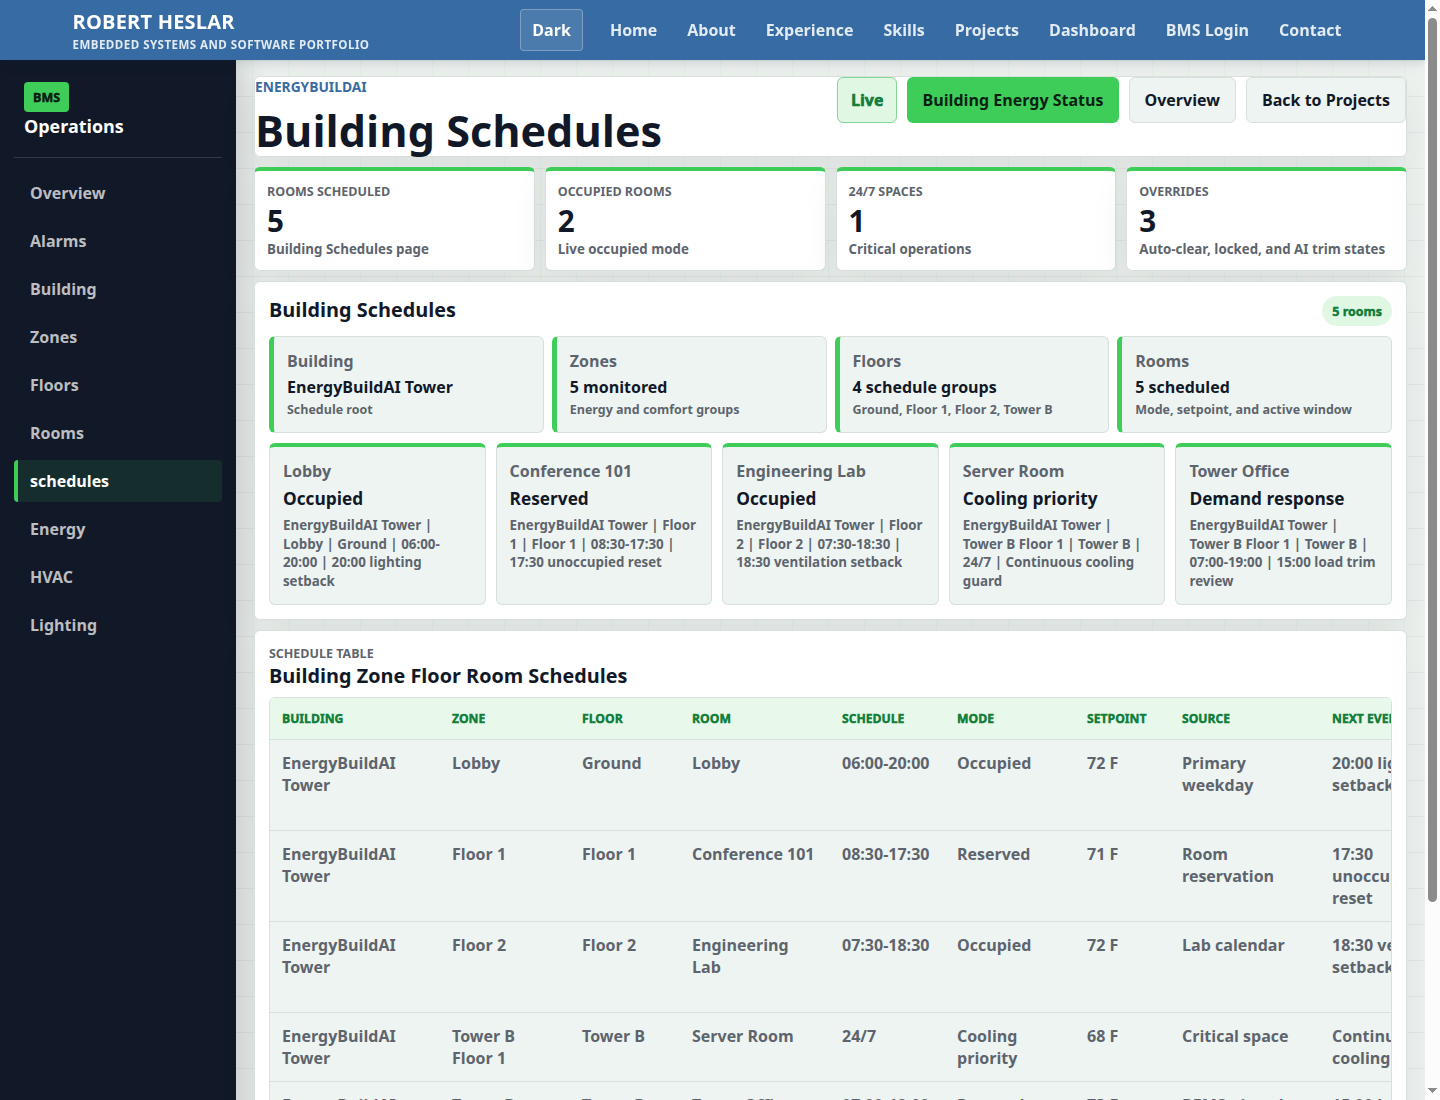
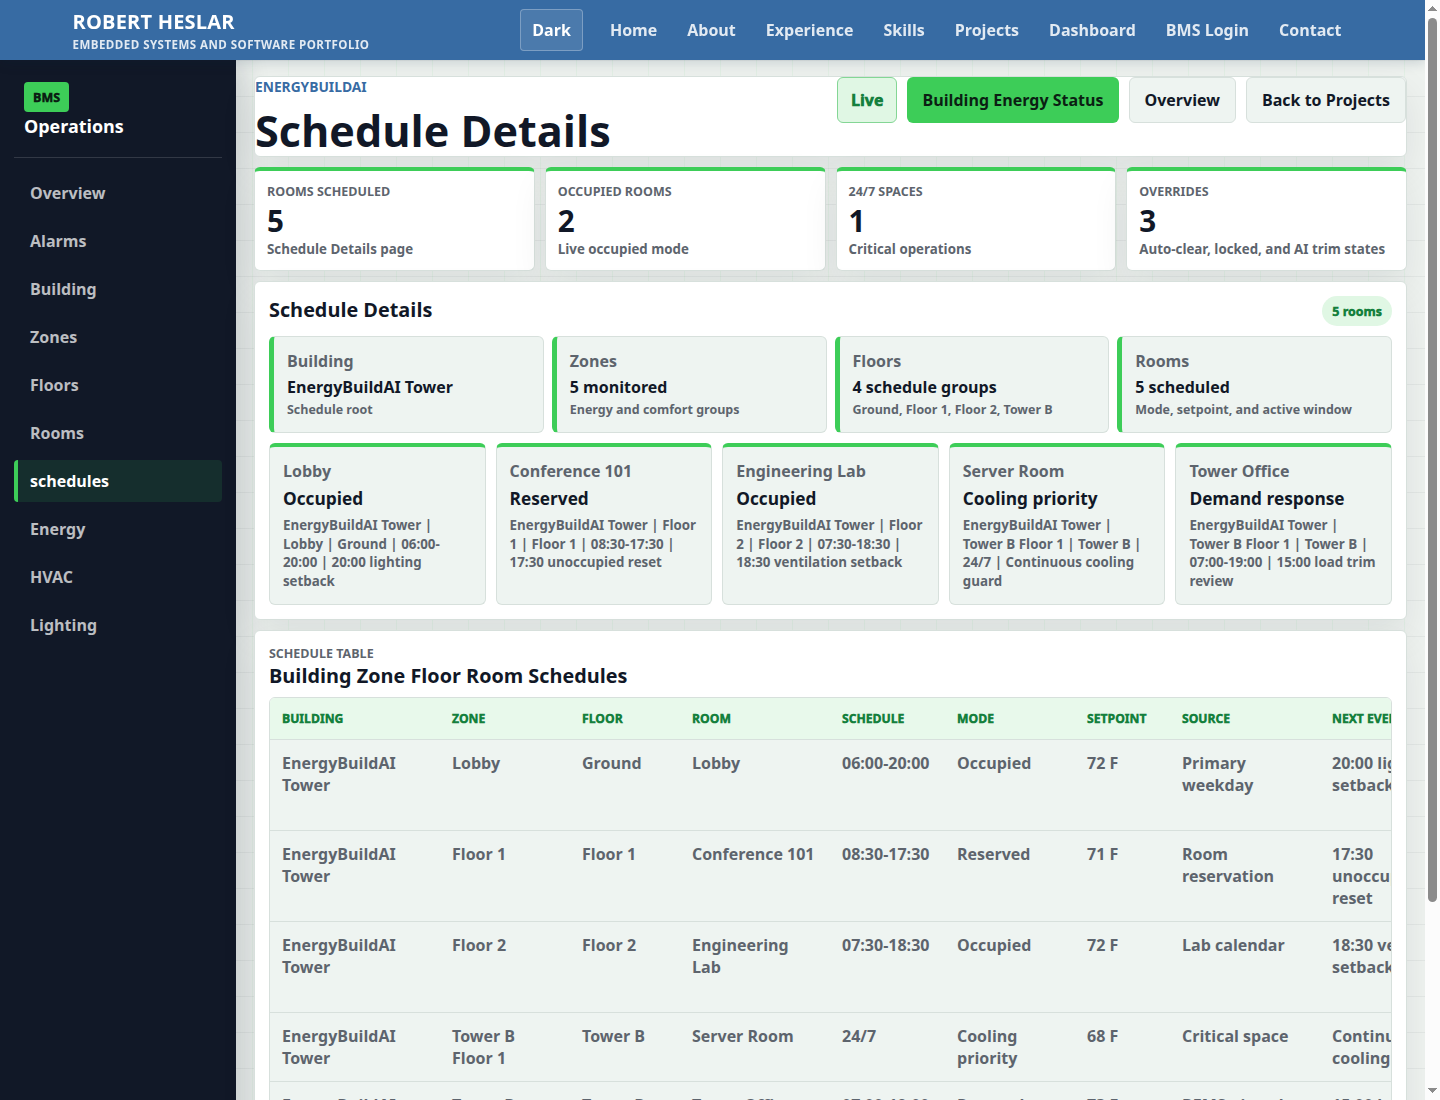
Restore schedule details title

Changed region(s): [[0.1875, 0.0927, 0.4688, 0.1545], [0.1875, 0.2782, 0.3125, 0.3091], [0.1875, 0.2164, 0.3125, 0.2473]]

diff --git a/src/components/Dashboard.tsx b/src/components/Dashboard.tsx
@@ -344,7 +344,7 @@ function Dashboard({ activeView = 'Overview' }: DashboardProps) {
   ];
 
   const scheduleKpis = [
-    { label: 'Rooms scheduled', value: String(roomSchedules.length), helper: 'Building Schedules page' },
+    { label: 'Rooms scheduled', value: String(roomSchedules.length), helper: 'Schedule Details page' },
     { label: 'Occupied rooms', value: String(roomSchedules.filter((room) => room.mode === 'Occupied').length), helper: 'Live occupied mode' },
     { label: '24/7 spaces', value: String(roomSchedules.filter((room) => room.schedule === '24/7').length), helper: 'Critical operations' },
     { label: 'Overrides', value: String(roomSchedules.filter((room) => room.override !== 'None').length), helper: 'Auto-clear, locked, and AI trim states' }
@@ -381,11 +381,11 @@ function Dashboard({ activeView = 'Overview' }: DashboardProps) {
       ? [
           { label: 'Building', value: 'Online' },
           { label: 'Floors', value: `${floorSummaries.length} active` },
-          { label: 'Building Schedules', value: 'Synced' }
+          { label: 'Schedule Details', value: 'Synced' }
         ]
       : isScheduleView
         ? [
-            { label: 'Building Schedules', value: 'Active' },
+            { label: 'Schedule Details', value: 'Active' },
             { label: 'Rooms', value: `${roomSchedules.length} listed` },
             { label: 'Sync State', value: 'Current' }
           ]
@@ -421,7 +421,7 @@ function Dashboard({ activeView = 'Overview' }: DashboardProps) {
         <section className="eco-topbar">
           <div>
             <p className="detail-kicker">EnergyBuildAI</p>
-            <h1>{isAlarmView ? 'Alarm Response Center' : isBuildingView ? 'Building Summary' : isScheduleView ? 'Building Schedules' : 'Building Operation Center'}</h1>
+            <h1>{isAlarmView ? 'Alarm Response Center' : isBuildingView ? 'Building Summary' : isScheduleView ? 'Schedule Details' : 'Building Operation Center'}</h1>
           </div>
           <div className="eco-topbar-actions">
             <span className="eco-live-pill">Live</span>
@@ -434,7 +434,7 @@ function Dashboard({ activeView = 'Overview' }: DashboardProps) {
                 className="cta-button secondary-cta"
                 onClick={() => jumpToDashboardContent('Schedules')}
               >
-                Building Schedules
+                Schedule Details
               </button>
             )}
             <button
@@ -691,7 +691,7 @@ function Dashboard({ activeView = 'Overview' }: DashboardProps) {
             <article className="eco-card eco-card-wide">
               <div className="eco-card-heading">
                 <div>
-                  <h2>Building Schedules</h2>
+                  <h2>Schedule Details</h2>
                 </div>
                 <strong>{roomSchedules.length} rooms</strong>
               </div>

diff --git a/src/data/projects.ts b/src/data/projects.ts
@@ -846,7 +846,7 @@ const baseProjects: Project[] = [
         focus: 'BEMS-ai integration, service contracts, telemetry flow, deployment evidence model'
       },
       {
-        title: 'EnergyBuildAI Building Schedules',
+        title: 'EnergyBuildAI Schedule Details',
         path: 'docs/energybuildai-schedule-details.md',
         url: 'https://github.com/rheslar1/Rheslar1-github.io/blob/main/docs/energybuildai-schedule-details.md',
         focus: 'Schedule route, building-zone-floor-room schedule rows, override rules, dampers, motors, fans, and final screenshot evidence'
@@ -873,7 +873,7 @@ const baseProjects: Project[] = [
         title: 'Operator Manual',
         path: 'docs/bems-final-content/operator-manual.md',
         url: 'https://github.com/rheslar1/Rheslar1-github.io/blob/main/docs/bems-final-content/operator-manual.md',
-        focus: 'Recurring login, building, room, alarm, Building Schedules, reports, and system-health workflows'
+        focus: 'Recurring login, building, room, alarm, Schedule Details, reports, and system-health workflows'
       },
       {
         title: 'CI And Deployment Evidence',

diff --git a/src/App.test.tsx b/src/App.test.tsx
@@ -93,8 +93,8 @@ test('renders schedules directly from #dashboard/schedules without the removed i
   });
 
   expect(container.textContent).toContain('schedules');
-  expect(container.textContent).toContain('Building Schedules');
-  expect(container.textContent).not.toContain(['Schedule', 'Details'].join(' '));
+  expect(container.textContent).toContain('Schedule Details');
+  expect(container.textContent).not.toContain(['Building', 'Schedules'].join(' '));
   expect(container.textContent).not.toContain(['Building', 'Hierarchy'].join(' '));
   expect(container.textContent).not.toContain('Dedicated schedule view organized from building to zone, floor, and room-level operating windows.');
   expect(container.querySelector('.eco-command-hero')).toBeNull();

diff --git a/docs/energybuildai-schedule-details.md b/docs/energybuildai-schedule-details.md
@@ -1,6 +1,6 @@
-# EnergyBuildAI Building Schedules
+# EnergyBuildAI Schedule Details
 
-This document describes the Building Schedules view shown in the portfolio dashboard at `#dashboard/schedules`.
+This document describes the Schedule Details view shown in the portfolio dashboard at `#dashboard/schedules`.
 
 ## Dashboard Route
 
@@ -45,8 +45,8 @@ The dashboard also surfaces equipment that influences schedule execution:
 
 ## Captured Evidence
 
-- `docs/evidence/energybuildai-schedules-desktop.png`: desktop screenshot of the Building Schedules route at `#dashboard/schedules`.
-- `docs/evidence/energybuildai-schedules-mobile.png`: mobile screenshot of the Building Schedules route at `#dashboard/schedules`.
+- `docs/evidence/energybuildai-schedules-desktop.png`: desktop screenshot of the Schedule Details route at `#dashboard/schedules`.
+- `docs/evidence/energybuildai-schedules-mobile.png`: mobile screenshot of the Schedule Details route at `#dashboard/schedules`.
 - `docs/evidence/energybuildai-building-summary-desktop.png`: screenshot of the Building Summary view after the wording update.
 - `docs/evidence/energybuildai-equipment-systems-desktop.png`: screenshot of fans, dampers, motors, pump motor, and lighting relay system details.
 - `docs/energybuildai-schedule-api-seed-evidence.md`: seeded schedule rows and future BEMS API mapping.

diff --git a/docs/evidence/README.md b/docs/evidence/README.md
@@ -4,8 +4,8 @@ Generated evidence captured from the local production build and deterministic pr
 
 ## EnergyBuildAI Dashboard
 
-- `energybuildai-schedules-desktop.png`: desktop capture of `#dashboard/schedules` with the Building Schedules view, building-zone-floor-room rows, schedule source, next event, override state, and control intent.
-- `energybuildai-schedules-mobile.png`: mobile capture of the Building Schedules route at `#dashboard/schedules`.
+- `energybuildai-schedules-desktop.png`: desktop capture of `#dashboard/schedules` with the Schedule Details view, building-zone-floor-room rows, schedule source, next event, override state, and control intent.
+- `energybuildai-schedules-mobile.png`: mobile capture of the Schedule Details route at `#dashboard/schedules`.
 - `energybuildai-building-summary-desktop.png`: desktop capture of `#dashboard/building` after renaming the page to Building Summary and adding expanded systems context.
 - `energybuildai-equipment-systems-desktop.png`: desktop capture focused on fans, dampers, motors, pump motor, and lighting relay system health.
 

diff --git a/docs/portfolio-screenshot-matrix.md b/docs/portfolio-screenshot-matrix.md
@@ -9,7 +9,7 @@ Screenshots were captured from the production build served locally on port `4173
 | BEMS project detail | `docs/evidence/portfolio-project-bems-desktop.png` | `docs/evidence/portfolio-project-bems-mobile.png` |
 | BMS login | `docs/evidence/bms-login-01-sign-in.png` | `docs/evidence/bms-login-01-sign-in-mobile.png` |
 | Dashboard landing | `docs/evidence/bms-login-02-dashboard-landing.png` | `docs/evidence/bms-login-02-dashboard-landing-mobile.png` |
-| EnergyBuildAI Building Schedules | `docs/evidence/energybuildai-schedules-desktop.png` | `docs/evidence/energybuildai-schedules-mobile.png` |
+| EnergyBuildAI Schedule Details | `docs/evidence/energybuildai-schedules-desktop.png` | `docs/evidence/energybuildai-schedules-mobile.png` |
 | Building Summary and equipment | `docs/evidence/energybuildai-equipment-systems-desktop.png` | Add mobile detail capture after next UI pass. |
 
 ## Simulation Screenshot Set

diff --git a/docs/energybuildai-schedule-route-test-report.md b/docs/energybuildai-schedule-route-test-report.md
@@ -14,7 +14,7 @@ renders schedules directly from #dashboard/schedules without the removed intro c
 
 The test sets `window.location.hash = '#dashboard/schedules'`, renders `App`, advances the loading timer, and verifies:
 
-- the dashboard renders the `Building Schedules` page title,
+- the dashboard renders the `Schedule Details` page title,
 - the left operation sidebar renders `schedules`,
 - the removed schedule-intro copy does not render on the route,
 - the previous long intro text is absent,

diff --git a/docs/bems-final-content/operator-manual.md b/docs/bems-final-content/operator-manual.md
@@ -27,7 +27,7 @@
 3. Review source, current reading, threshold, likely cause, impact, and action.
 4. Acknowledge or clear in the BMS UI/API workflow when connected to backend data.
 
-## Building Schedules Review
+## Schedule Details Review
 
 1. Open `#dashboard/schedules`.
 2. Review building, zone, floor, room, schedule, mode, setpoint, source, next event, override, and control intent.

diff --git a/docs/energybuildai-schedule-api-seed-evidence.md b/docs/energybuildai-schedule-api-seed-evidence.md
@@ -1,6 +1,6 @@
 # EnergyBuildAI Schedule API And Seed Evidence
 
-This evidence documents the current seeded Building Schedules rows used by the portfolio dashboard at `#dashboard/schedules`.
+This evidence documents the current seeded Schedule Details rows used by the portfolio dashboard at `#dashboard/schedules`.
 
 ## Source Boundary
 
